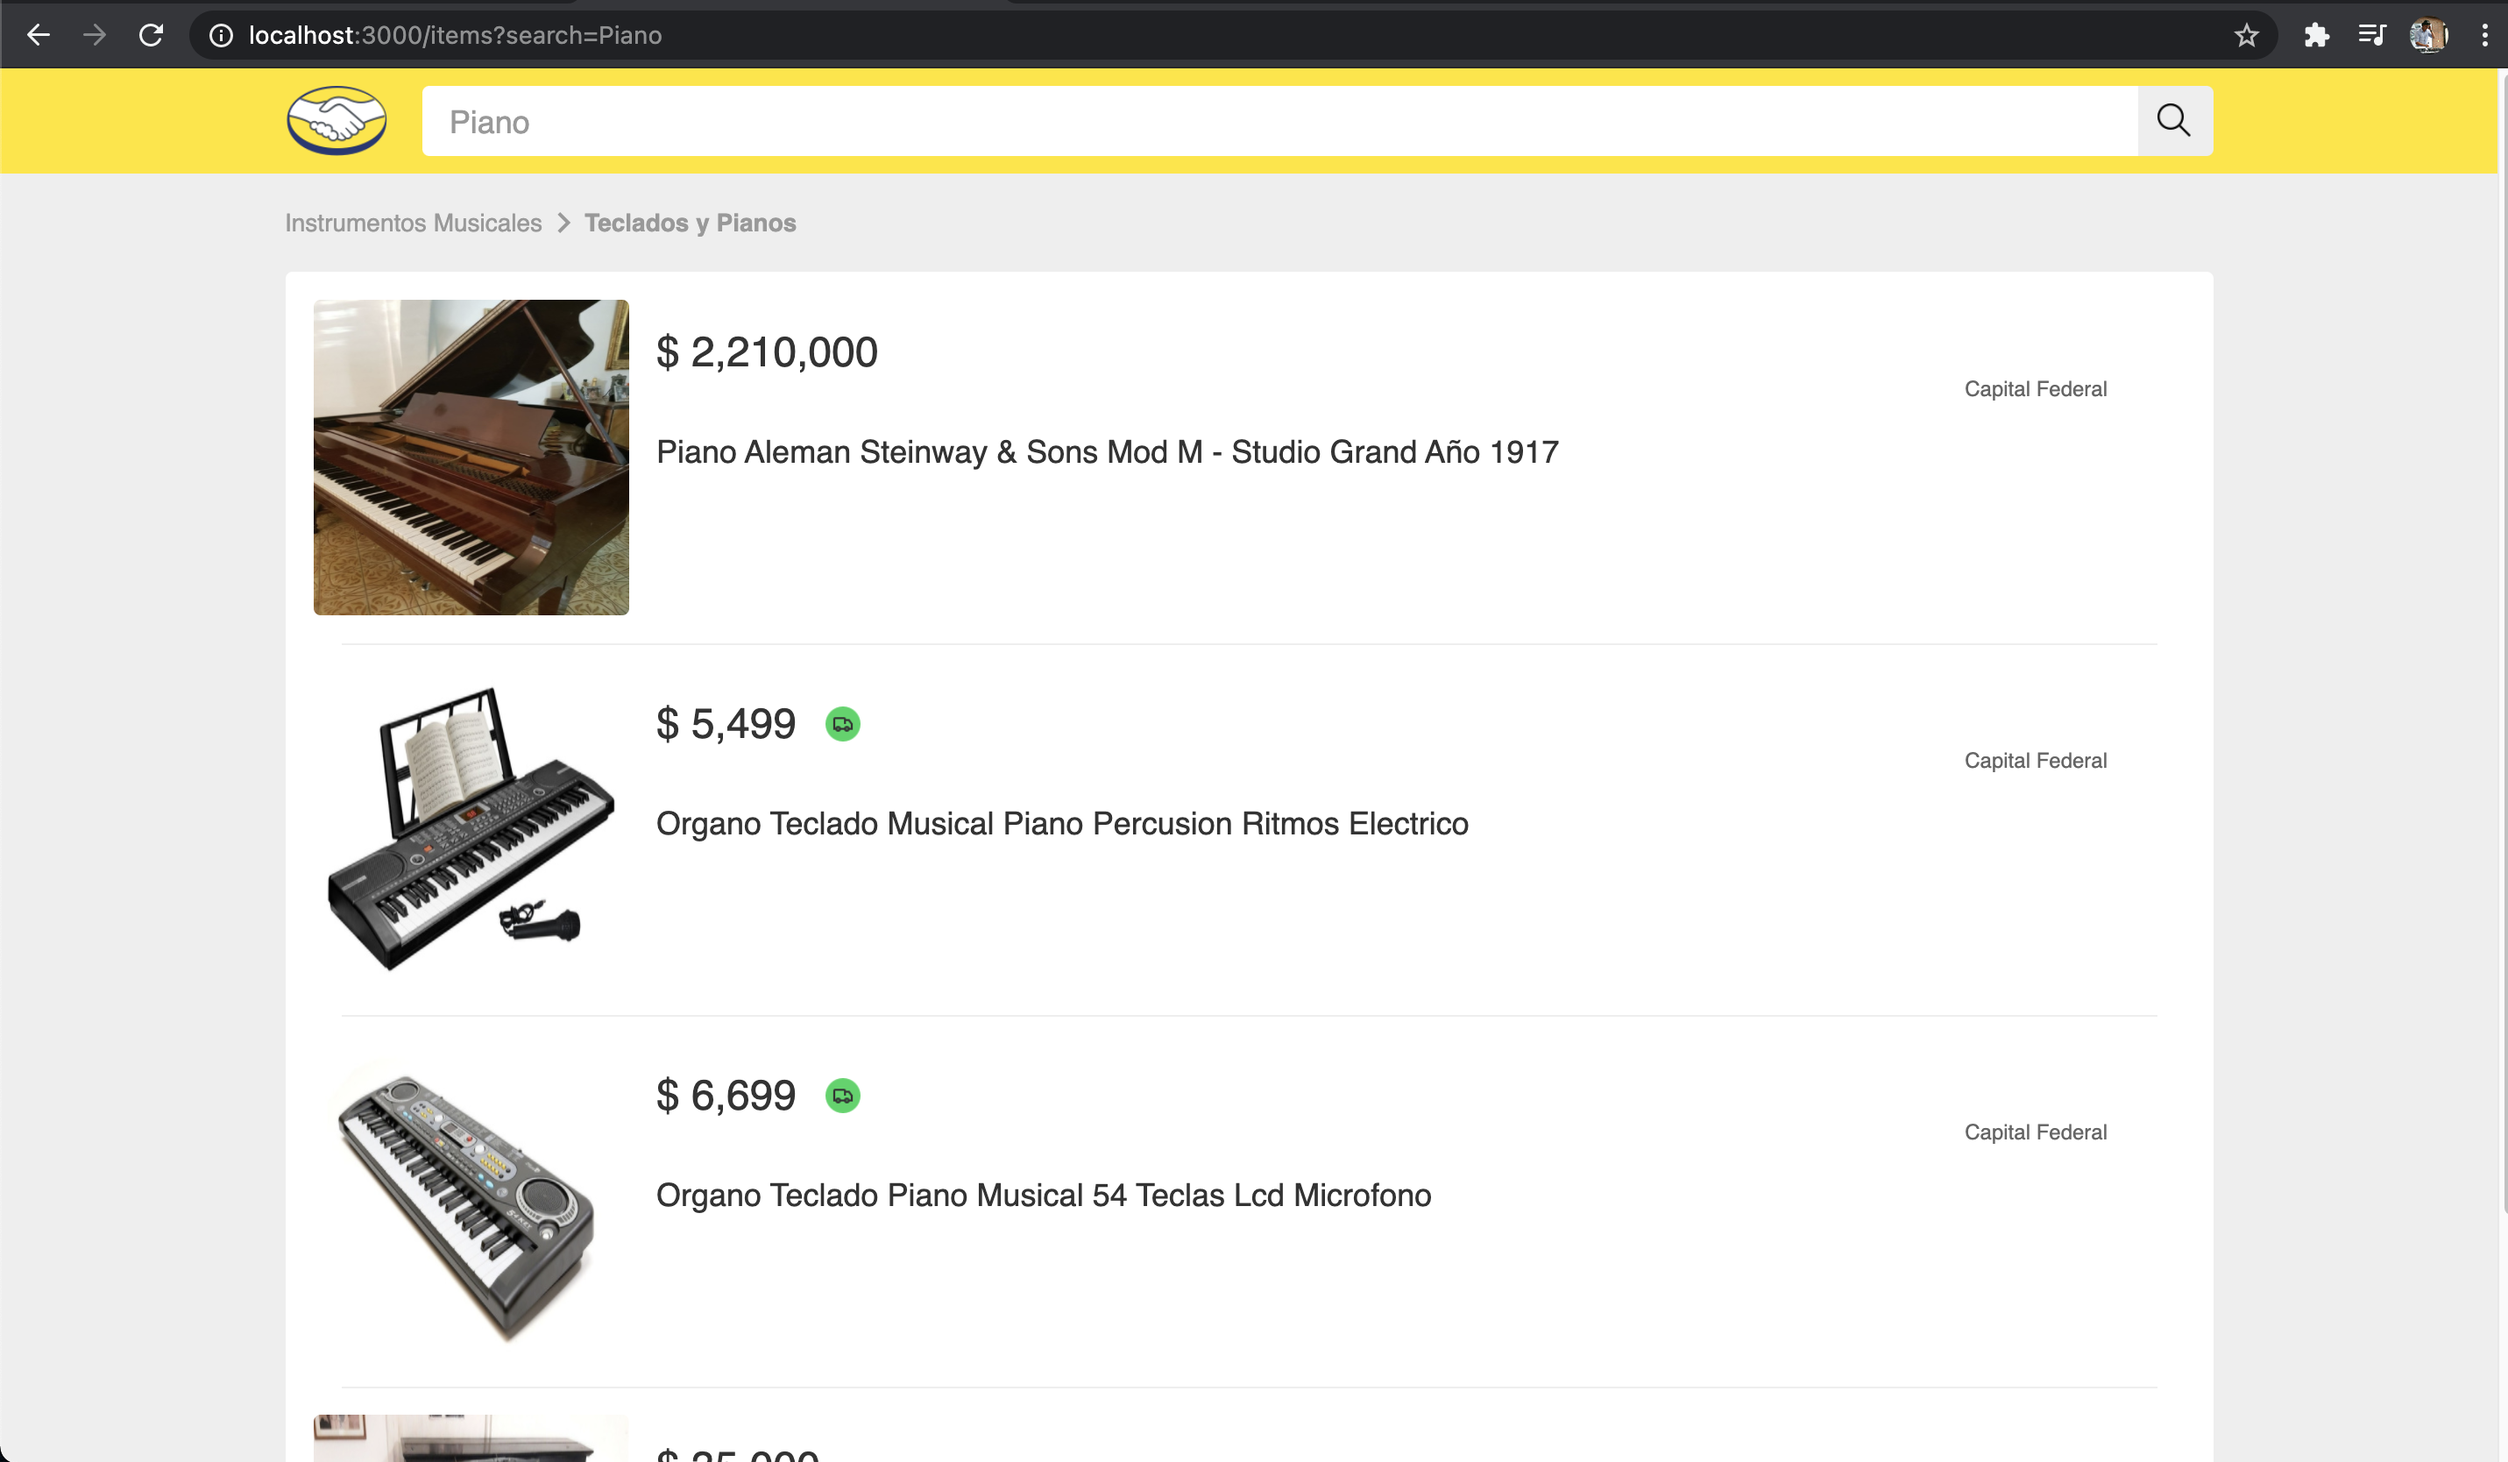
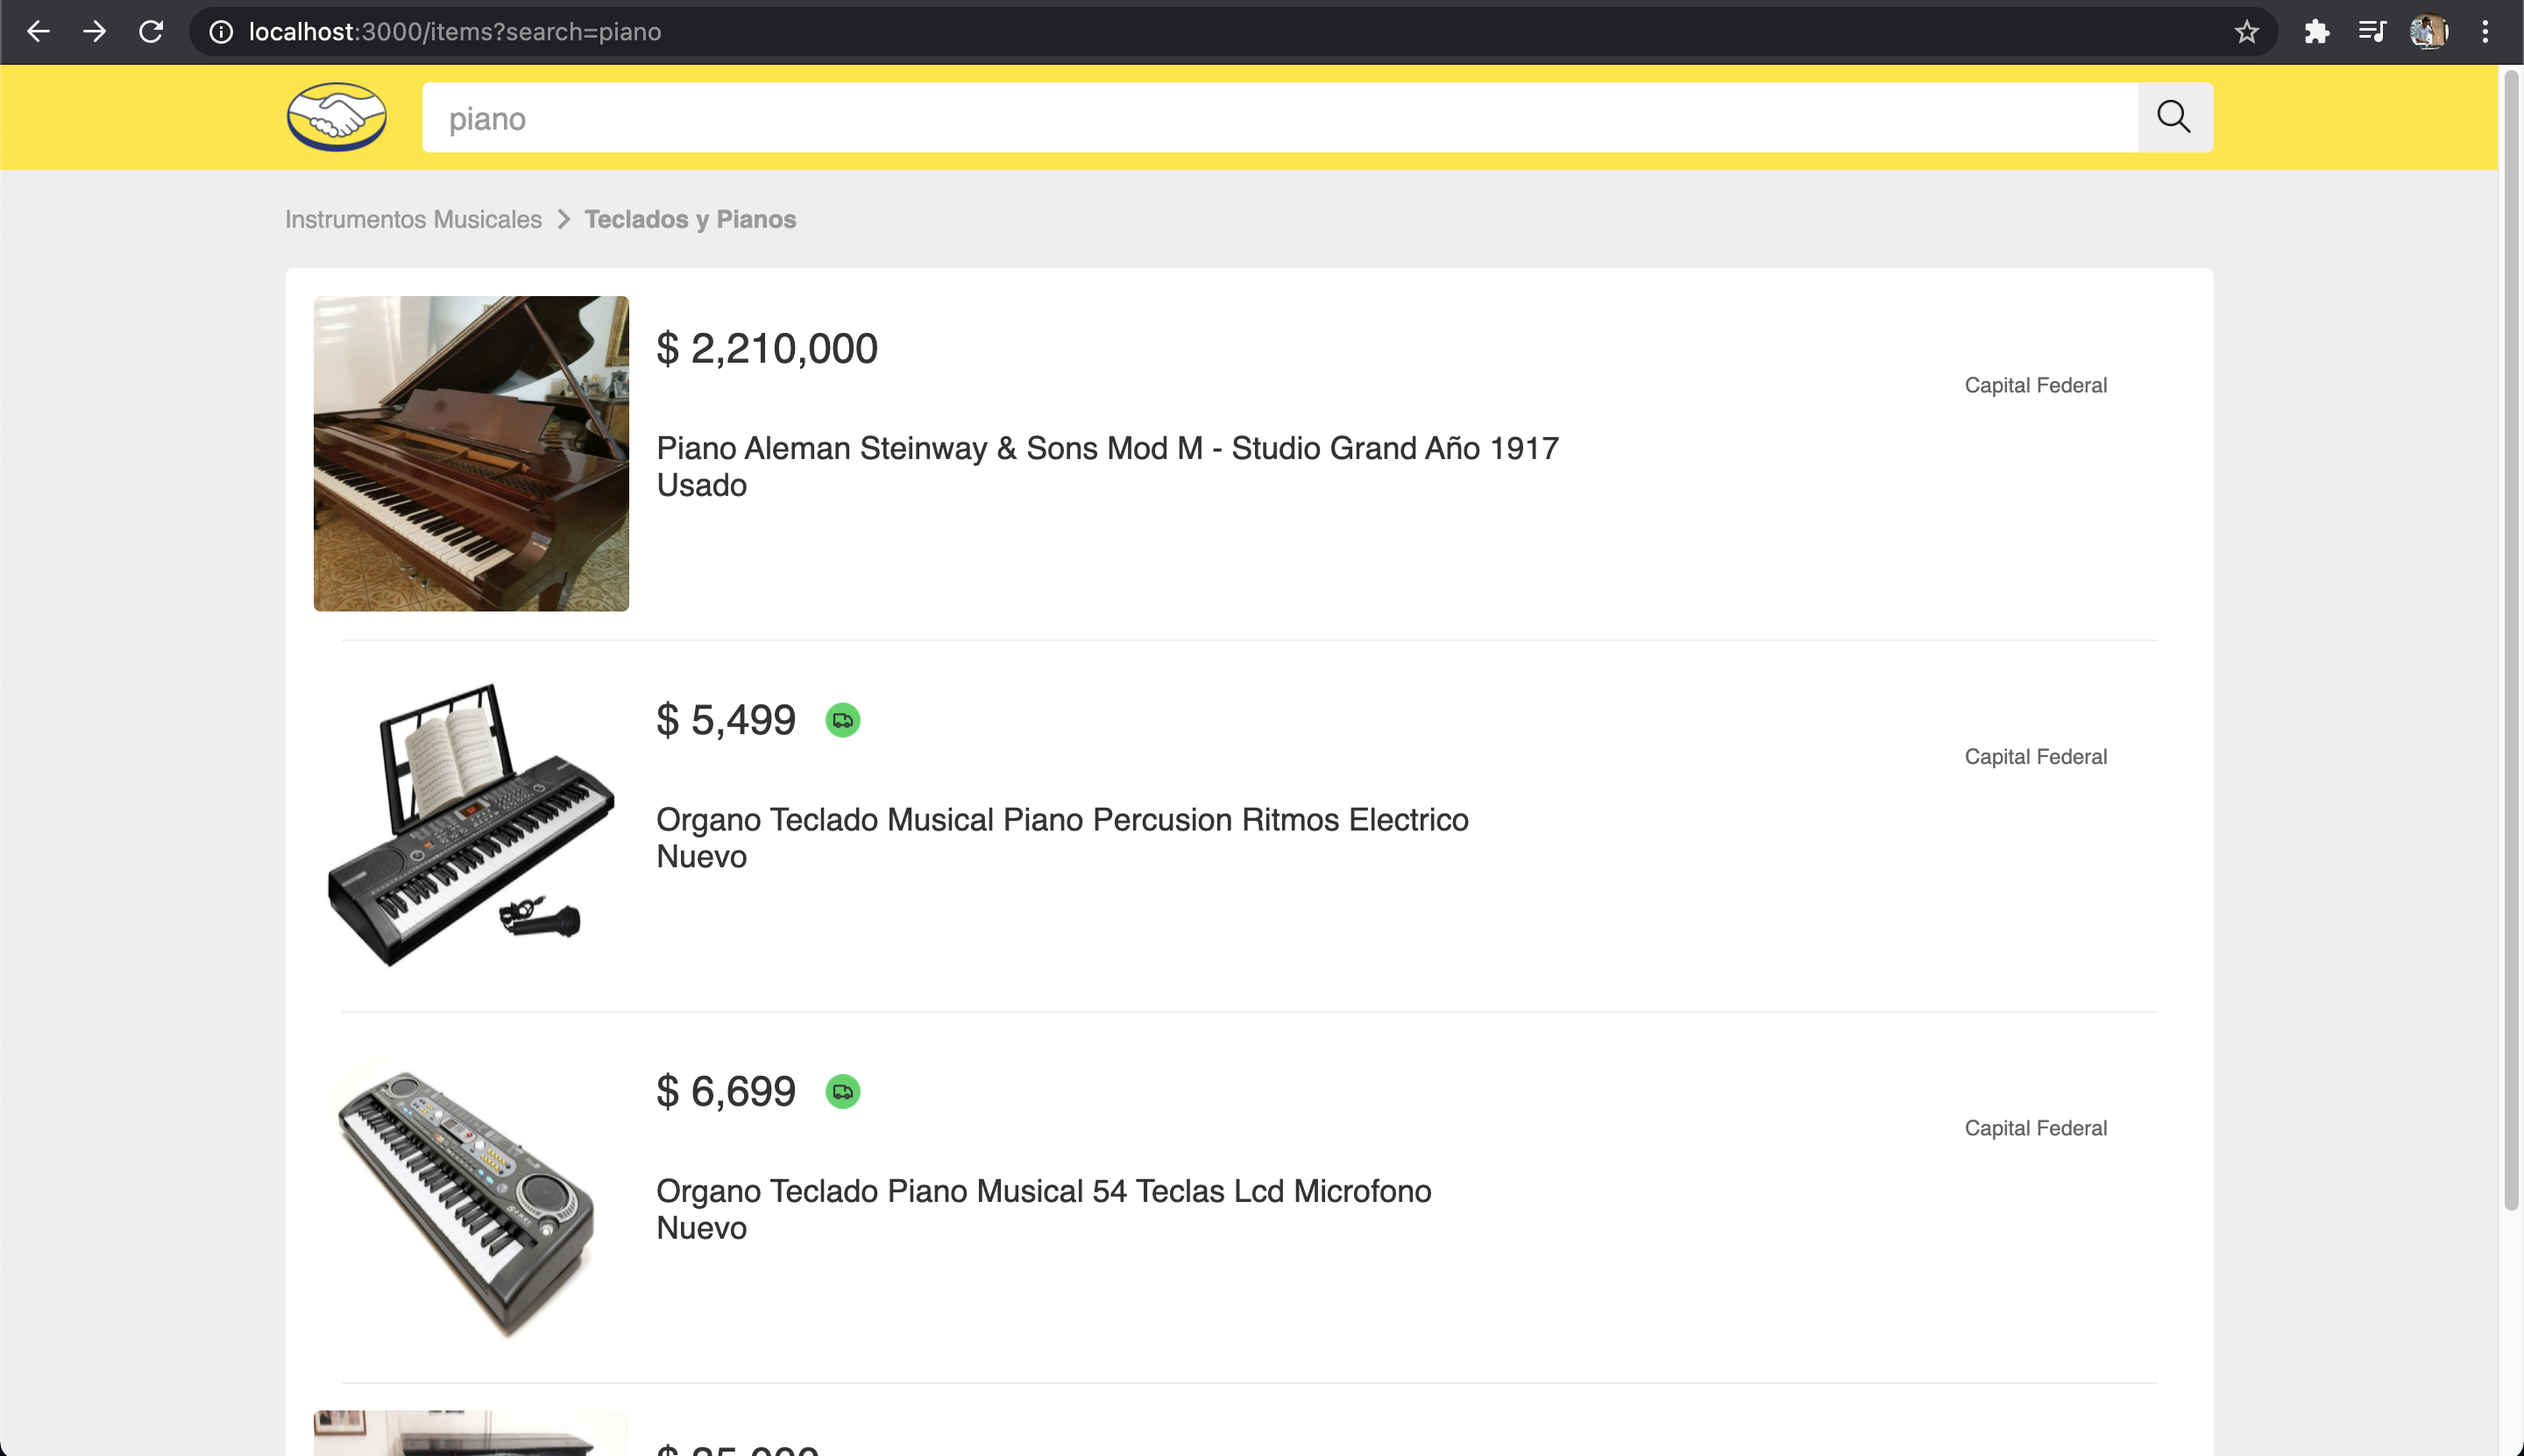
Minor fix in condition label

diff --git a/frontend_client/src/components/product-card/product-card.jsx b/frontend_client/src/components/product-card/product-card.jsx
@@ -11,6 +11,12 @@ const ProductCardComponent = ({ product }) => {
         history.push(`/items/${product.id}`);
     }
 
+      
+    const condition = {
+        'used': 'Usado',
+        'new':'Nuevo'
+    };
+
     return (
         <div className="product" onClick={detailPage}>
             <img src={product.picture} alt="Imagen producto" className="product__image" />
@@ -33,7 +39,7 @@ const ProductCardComponent = ({ product }) => {
                         ) : null}
                     </div>
                     <p className="product__content__details__description" data-testid="title">{product.title}</p>
-                    <p className="product__content__details__condition" data-testid="description">{product.description}</p>
+                    <p className="product__content__details__condition" data-testid="description">{condition[product.condition]}</p>
                 </div>
                 <p className="product__content__location">{product.location}</p>
             </div>
